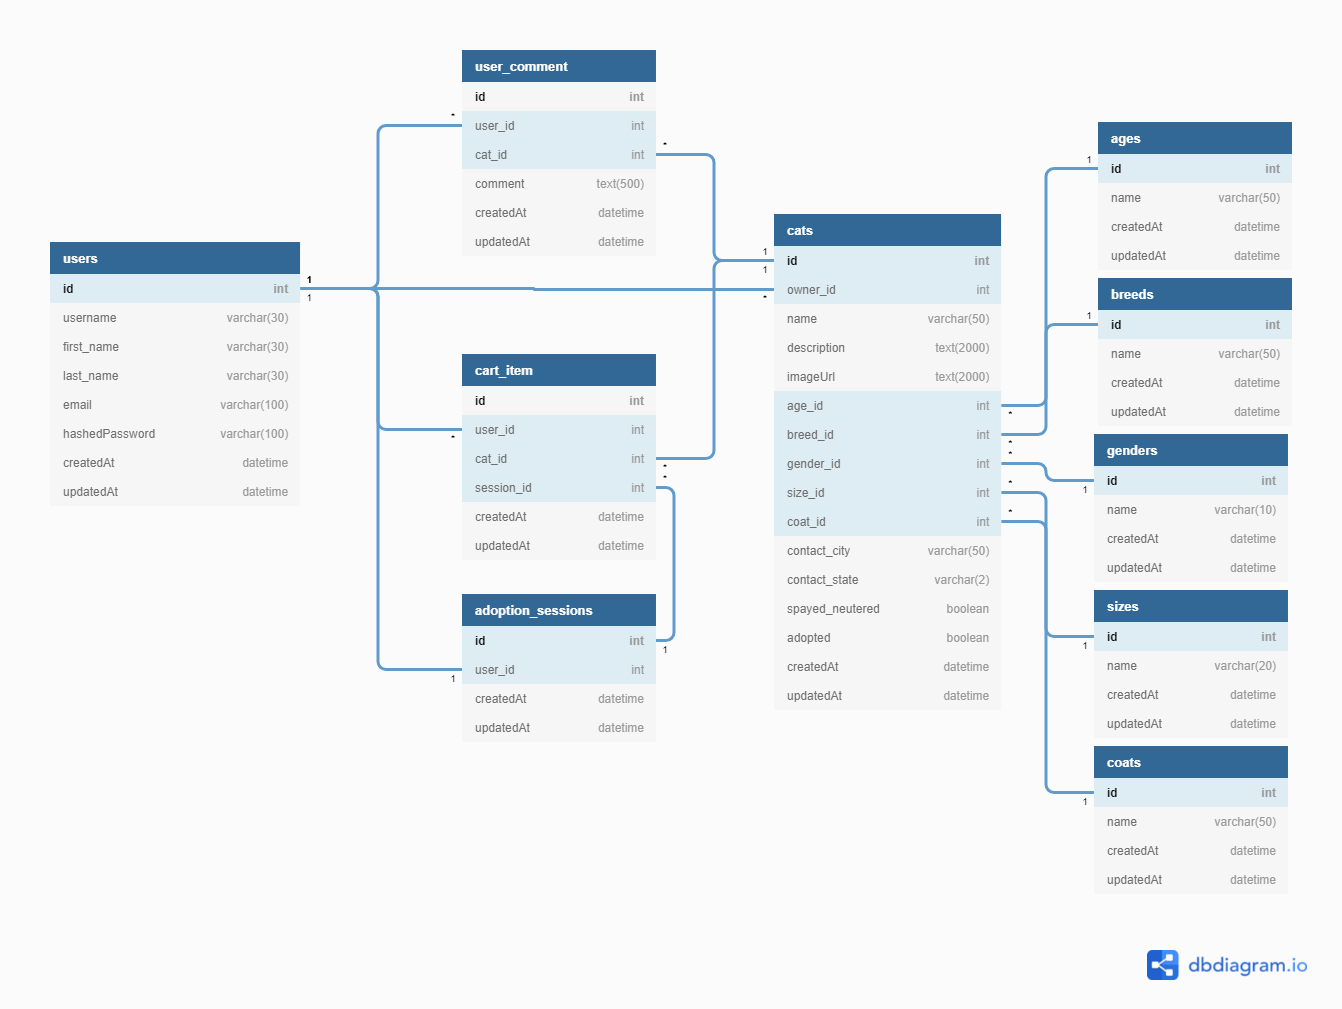
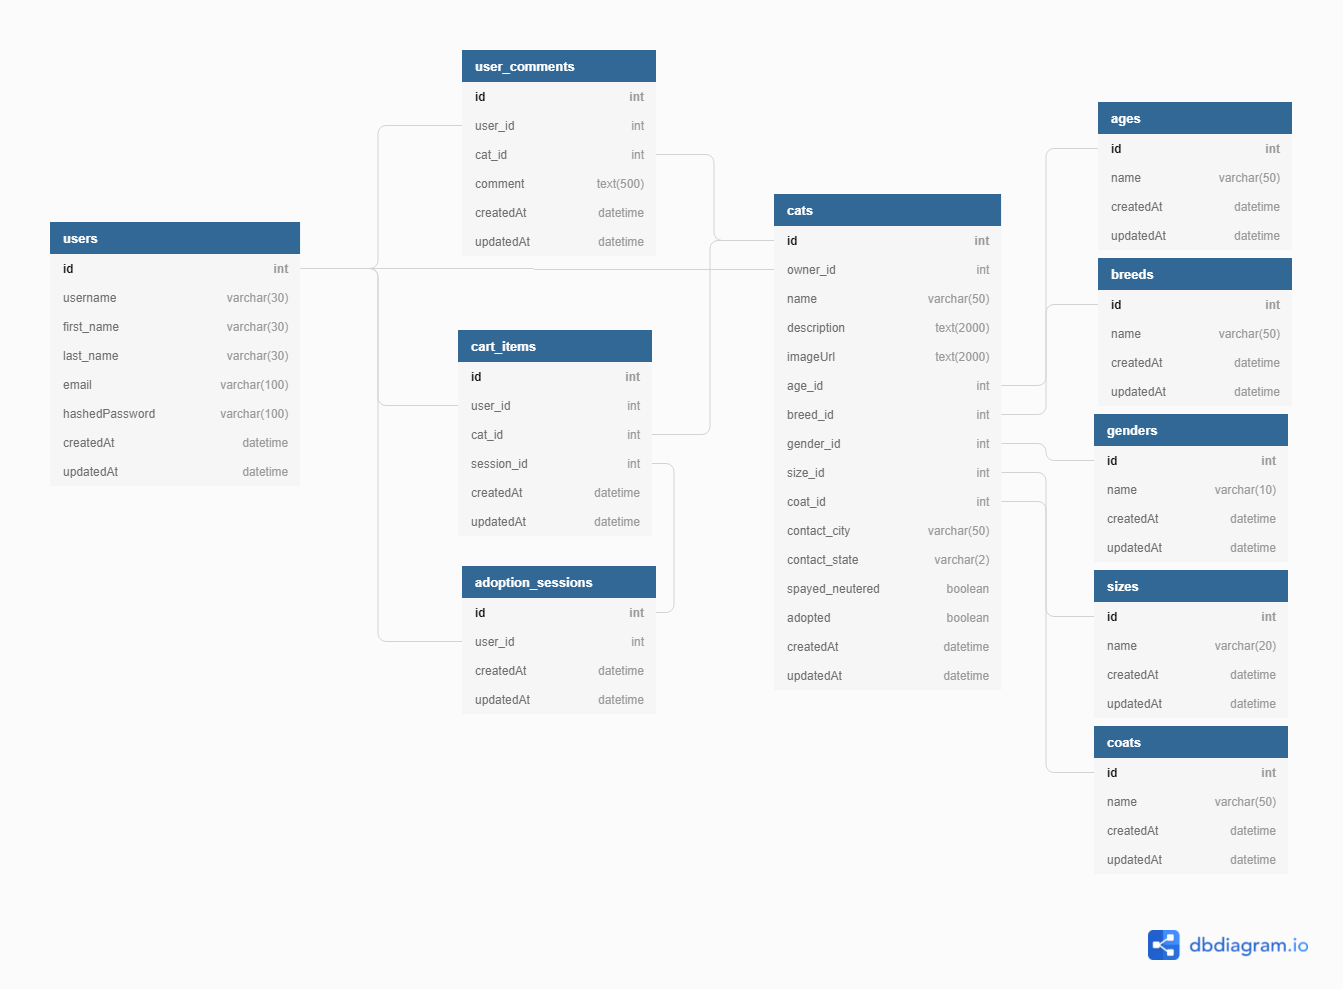
add in base db mappings

diff --git a/app/models/cat.py b/app/models/cat.py
@@ -1,0 +1,21 @@
+from .db import db
+from flask_login import UserMixin
+
+
+class Cat(db.Model, UserMixin):
+    __tablename__ = 'cats'
+
+    id = db.Column(db.Integer, primary_key=True)
+    owner_id = db.Column(db.Integer, ForeignKey="users.id")
+    name = db.Column(db.String(50), nullable=False)
+    description = db.Column(db.String(2000))
+    image_url = db.Column(db.String(2000), nullable=False)
+    age_id = db.Column(db.Integer, ForeignKey="ages.id")
+    breed_id = db.Column(db.Integer, ForeignKey="breeds.id")
+    gender_id = db.Column(db.Integer, ForeignKey="genders.id")
+    size_id = db.Column(db.Integer, ForeignKey="sizes.id")
+    coat_id = db.Column(db.Integer, ForeignKey="coats.id")
+    contact_city = db.Column(db.String(50))
+    contact_state = db.Column(db.String(2))
+    spayed_neutered = db.Column(db.Boolean, create_constraint=False)
+    adopted = db.Column(db.Boolean, create_constraint=False)

diff --git a/app/models/cart_item.py b/app/models/cart_item.py
@@ -1,0 +1,11 @@
+from .db import db
+from flask_login import UserMixin
+
+
+class Cart_Item(db.Model, UserMixin):
+    __tablename__ = 'cart_items'
+
+    id = db.Column(db.Integer, primary_key=True)
+    user_id = db.Column(db.Integer, ForeignKey="users.id")
+    cat_id = db.Column(db.Integer, ForeignKey="cats.id")
+    session_id = db.Column(db.Integer, ForeignKey="adoption_sessions.id")

diff --git a/app/models/user_comment.py b/app/models/user_comment.py
@@ -1,0 +1,11 @@
+from .db import db
+from flask_login import UserMixin
+
+
+class User_Comment(db.Model, UserMixin):
+    __tablename__ = 'user_comments'
+
+    id = db.Column(db.Integer, primary_key=True)
+    user_id = db.Column(db.Integer, ForeignKey="users.id")
+    cat_id = db.Column(db.Integer, ForeignKey="cats.id")
+    comment = db.Column(db.String(500), nullable=False)

diff --git a/app/models/__init__.py b/app/models/__init__.py
@@ -1,2 +1,11 @@
 from .db import db
+from .adoption_session import Adoption_Session
+from .age import Age
+from .breed import Breed
+from .cart_item import Cart_Item
+from .cat import Cat
+from .coat import Coat
+from .gender import Gender
+from .size import Size
+from .user_comment import User_Comment
 from .user import User

diff --git a/app/models/adoption_session.py b/app/models/adoption_session.py
@@ -1,0 +1,9 @@
+from .db import db
+from flask_login import UserMixin
+
+
+class Adoption_Session(db.Model, UserMixin):
+    __tablename__ = 'adoption_sessions'
+
+    id = db.Column(db.Integer, primary_key=True)
+    user_id = db.Column(db.Integer, ForeignKey="users.id")

diff --git a/app/models/gender.py b/app/models/gender.py
@@ -1,0 +1,9 @@
+from .db import db
+from flask_login import UserMixin
+
+
+class Gender(db.Model, UserMixin):
+    __tablename__ = 'genders'
+
+    id = db.Column(db.Integer, primary_key=True)
+    name = db.Column(db.String(10), nullable=False)

diff --git a/app/models/breed.py b/app/models/breed.py
@@ -1,0 +1,9 @@
+from .db import db
+from flask_login import UserMixin
+
+
+class Breed(db.Model, UserMixin):
+    __tablename__ = 'breeds'
+
+    id = db.Column(db.Integer, primary_key=True)
+    name = db.Column(db.String(50), nullable=False)

diff --git a/app/models/coat.py b/app/models/coat.py
@@ -1,0 +1,9 @@
+from .db import db
+from flask_login import UserMixin
+
+
+class Coat(db.Model, UserMixin):
+    __tablename__ = 'coats'
+
+    id = db.Column(db.Integer, primary_key=True)
+    name = db.Column(db.String(50), nullable=False)

diff --git a/app/models/size.py b/app/models/size.py
@@ -1,0 +1,9 @@
+from .db import db
+from flask_login import UserMixin
+
+
+class Size(db.Model, UserMixin):
+    __tablename__ = 'sizes'
+
+    id = db.Column(db.Integer, primary_key=True)
+    name = db.Column(db.String(20), nullable=False)

diff --git a/app/models/age.py b/app/models/age.py
@@ -1,0 +1,9 @@
+from .db import db
+from flask_login import UserMixin
+
+
+class Age(db.Model, UserMixin):
+    __tablename__ = 'ages'
+
+    id = db.Column(db.Integer, primary_key=True)
+    name = db.Column(db.String(50), nullable=False)
